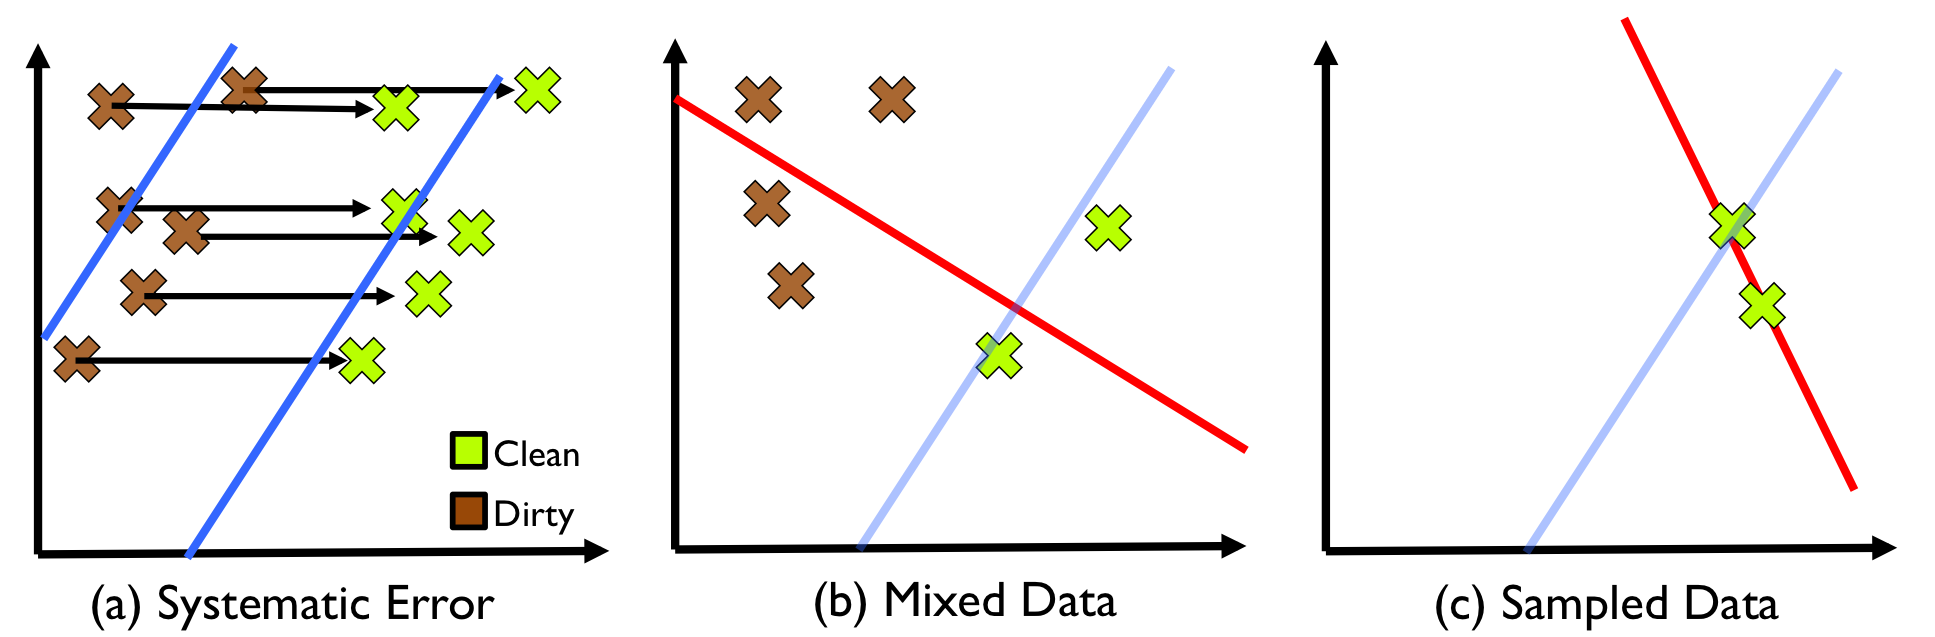
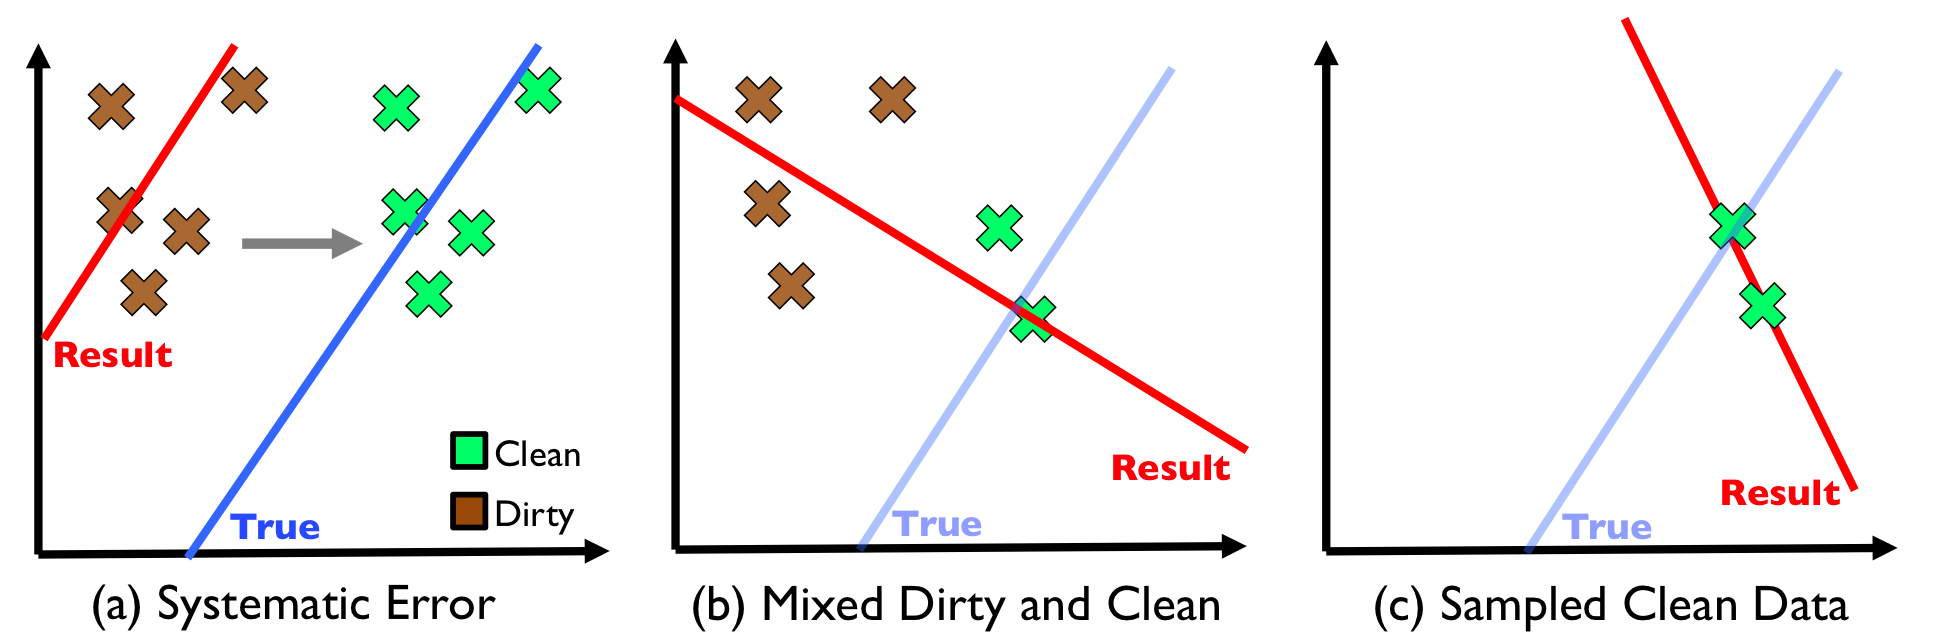
Udpated

diff --git a/background.tex b/background.tex
@@ -52,9 +52,9 @@ Training models on a mixture of dirty and clean data can lead to unreliable resu
 \begin{figure}[ht!]
 \centering
  \includegraphics[width=\columnwidth]{figs/update-arch.png}
- \caption{(a) Systematic corruption (translation) in one variable where the dirty data is in brown, the clean data is in green, and their respective best fit lines are in blue. 
- (b) Applying the same model to mixed data results in an inaccurate model.
-(c) Likewise, small sample sizes can result in similarly inaccurate models. \label{update-arch1}}
+ \caption{(a) Systematic corruption in one variable can lead to a shifted model. 
+ (b) Mixed dirty and clean data results in a less accurate model than no cleaning.
+(c) Small samples of only clean data can result in similarly inaccurate models. \label{update-arch1}}
 \end{figure}
 
 An alternative is to avoid the dirty data altogether instead of mixing the two populations.
@@ -126,14 +126,18 @@ The core problem addressed by \sys is incremental model update while progressive
 Let $R$ be a dirty relation, $F(r) \mapsto (x,y)$ be a featurization that maps
 a record $r \in R$ to a feature vector $x$ and label $y$, $\phi$ be a convex regularized loss,
 and $C(r) \mapsto r_{clean}$ be a cleaning technique that maps a record to its cleaned value. 
-Given these inputs, the \sys problem is to return an estimate $\hat{\theta}$ of the clean model for any limit $k$ on the number of times the data cleaning $C(\cdot)$ can be applied.
-The error in this estimate (i.e. L2 difference w.r.t a model trained on a fully cleaned dataset) should be bounded by a monotonically decreasing function in $k$ (i.e., more cleaning results is expected to improve the model).
+Given these inputs, the \sys problem is to return a \textbf{reliable} estimate $\hat{\theta}$ of the clean model for any limit $k$ on the number of times the data cleaning $C(\cdot)$ can be applied.
+
+\vspace{0.5em}
+
+\textbf{Reliable} precisely means that the error in this estimate (i.e., L2 difference w.r.t a model trained on a fully cleaned dataset) is bounded above by a monotonically decreasing function in $k$.
 \end{problem}
 
 Addressing this problem requires analysis of the loss function $\phi$ and how $\phi$ is affected by dirty data.
 The solution is to integrate data cleaning and model training, where $\phi$ is simultaneously minimized while the data is cleaned.
 The tight feedback loop between model training and data cleaning poses several new algorithmic challenges and systems challenges.
-From an algorithmic perspective,  we have to re-weight data to avoid biases and the population mixtures described previously.
+From an algorithmic perspective,  the \emph{reliability} of the estimates differentiate \sys from alternative methodologies.
+We have to re-weight data to avoid biases and the population mixture problems described previously.
 There are also numerous new opportunities for optimizations such as pragmatically prioritizing data and avoiding data that are expected to be clean.
 
 From a systems perspective, data cleaning and model training happen at very different time scales.
